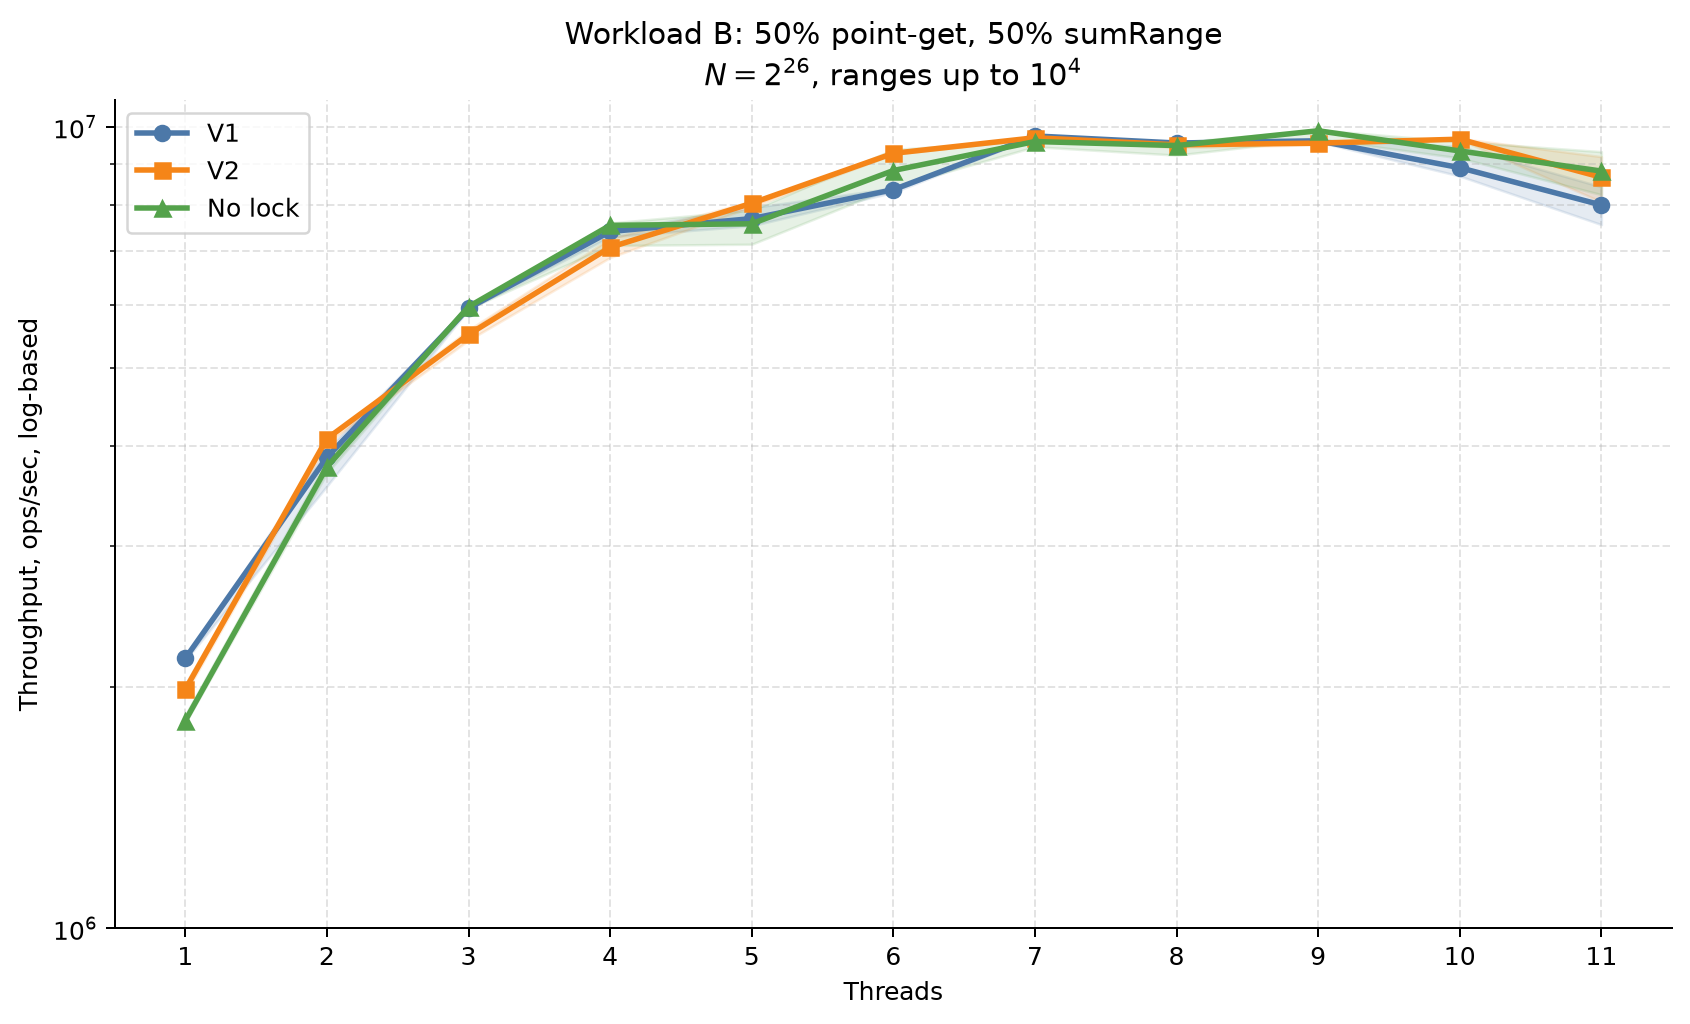
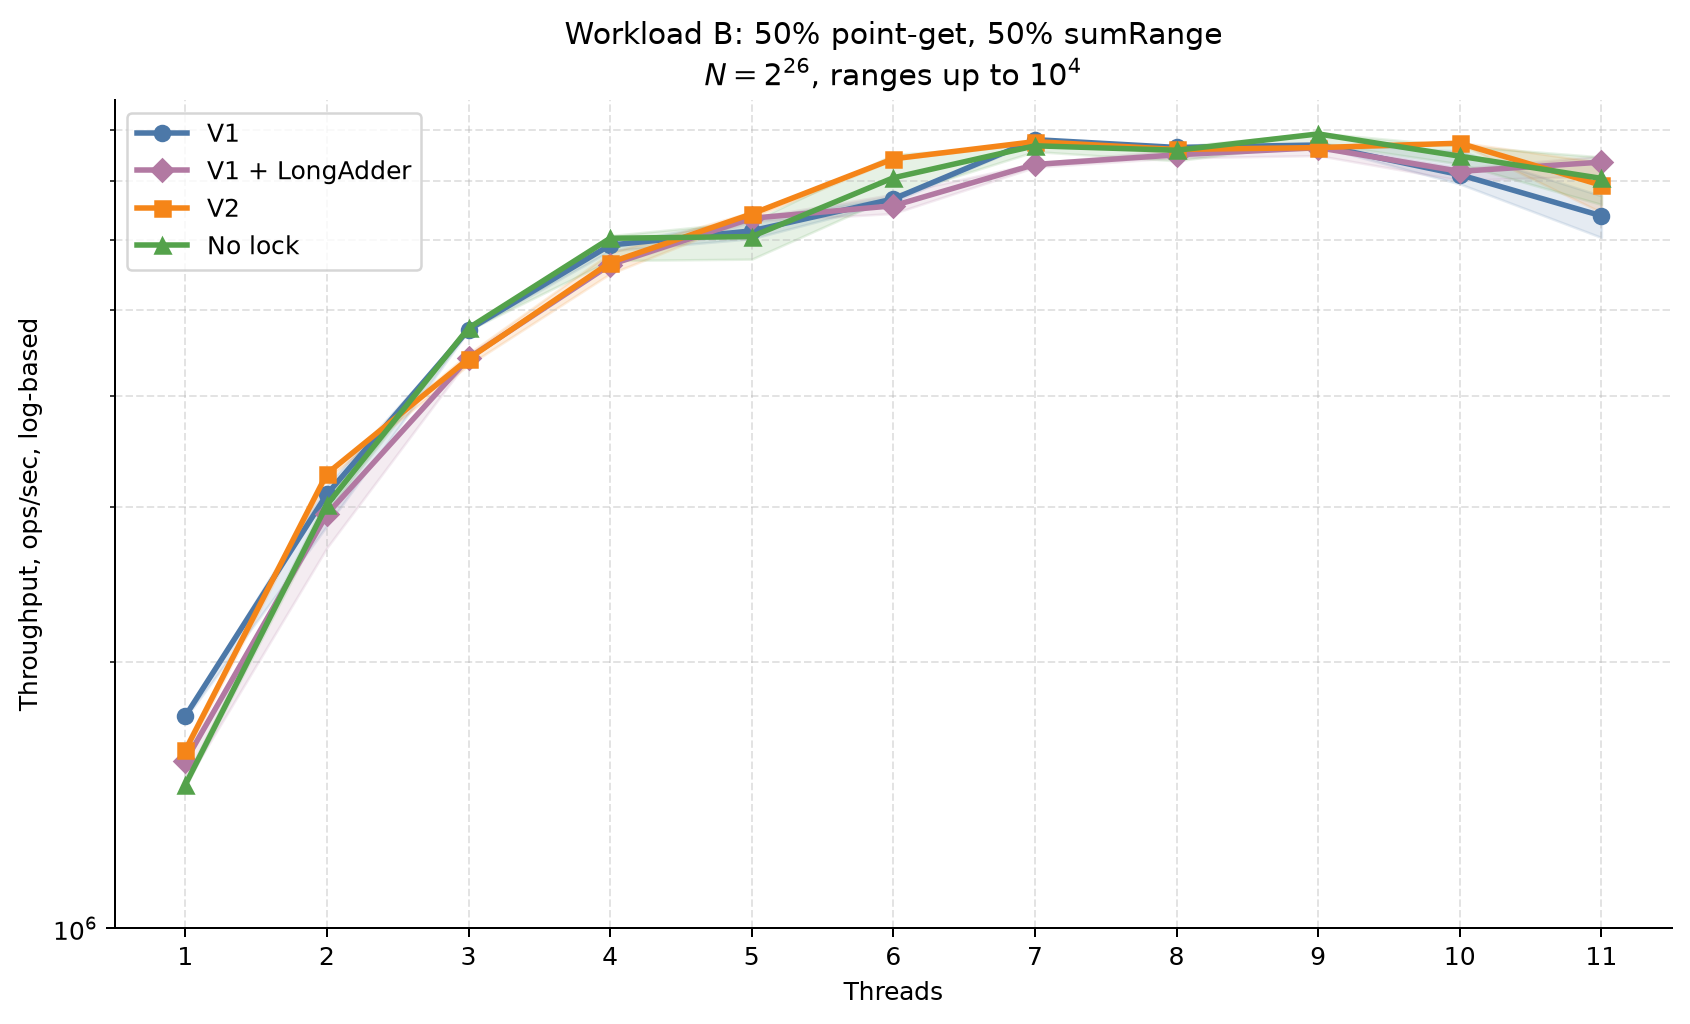
add JVM-like long_adder

diff --git a/bench/run_sweep.py b/bench/run_sweep.py
@@ -14,14 +14,16 @@ LOG_PATH = RESULTS_DIR / "sweep.log"
 
 ARRAY_LEN = 1 << 26
 MAX_QUERY_LEN = 10_000
-WORK_COUNT = (1 << 15) * 10
+WORK_COUNT = 1 << 18
 ITERATIONS = 10
 THREAD_COUNTS = range(1, 12)
 VERSIONS = (
     ("v1", ("-Dbench-v2=false",)),
+    ("v1-long-adder", ("-Dbench-long-adder=true",)),
     ("v2", ("-Dbench-v2=true",)),
     ("no-lock", ("-Dbench-no-lock=true",)),
 )
+VERSION_BY_NAME = dict(VERSIONS)
 
 CSV_FIELDS = (
     "version",
@@ -46,19 +48,43 @@ CSV_FIELDS = (
 
 
 def main() -> int:
+    if len(sys.argv) > 2 or (len(sys.argv) == 2 and sys.argv[1] not in VERSION_BY_NAME):
+        choices = ", ".join(VERSION_BY_NAME)
+        print(f"Usage: {Path(sys.argv[0]).name} [{choices}]", file=sys.stderr)
+        return 2
+
+    selected_version = sys.argv[1] if len(sys.argv) == 2 else None
+    selected_versions = (
+        ((selected_version, VERSION_BY_NAME[selected_version]),)
+        if selected_version
+        else VERSIONS
+    )
+
     RESULTS_DIR.mkdir(parents=True, exist_ok=True)
-    total = len(THREAD_COUNTS) * len(VERSIONS)
+    preserved_rows = []
+    if selected_version and CSV_PATH.is_file():
+        with CSV_PATH.open(newline="", encoding="utf-8") as existing_file:
+            for row in csv.DictReader(existing_file):
+                if row.get("version") == selected_version:
+                    continue
+                row["work_count"] = str(WORK_COUNT)
+                row["items_per_run"] = str(int(row["threads"]) * WORK_COUNT)
+                preserved_rows.append(row)
+
+    total = len(THREAD_COUNTS) * len(selected_versions)
     completed = 0
 
+    log_mode = "a" if selected_version else "w"
     with CSV_PATH.open("w", newline="", encoding="utf-8") as csv_file, LOG_PATH.open(
-        "w", encoding="utf-8"
+        log_mode, encoding="utf-8"
     ) as log_file:
         writer = csv.DictWriter(csv_file, fieldnames=CSV_FIELDS)
         writer.writeheader()
+        writer.writerows(preserved_rows)
         csv_file.flush()
 
         for threads in THREAD_COUNTS:
-            for version, version_args in VERSIONS:
+            for version, version_args in selected_versions:
                 completed += 1
                 label = f"[{completed}/{total}] {version}, threads={threads}"
                 print(label, flush=True)

diff --git a/bench/plot_throughput.py b/bench/plot_throughput.py
@@ -25,6 +25,7 @@ ROOT = Path(__file__).resolve().parents[1]
 DEFAULT_CSV = ROOT / "bench" / "results" / "sweep.csv"
 VERSIONS = (
     ("v1", "V1", "#4C78A8", "o"),
+    ("v1-long-adder", "V1 + LongAdder", "#B279A2", "D"),
     ("v2", "V2", "#F58518", "s"),
     ("no-lock", "No lock", "#54A24B", "^"),
 )
